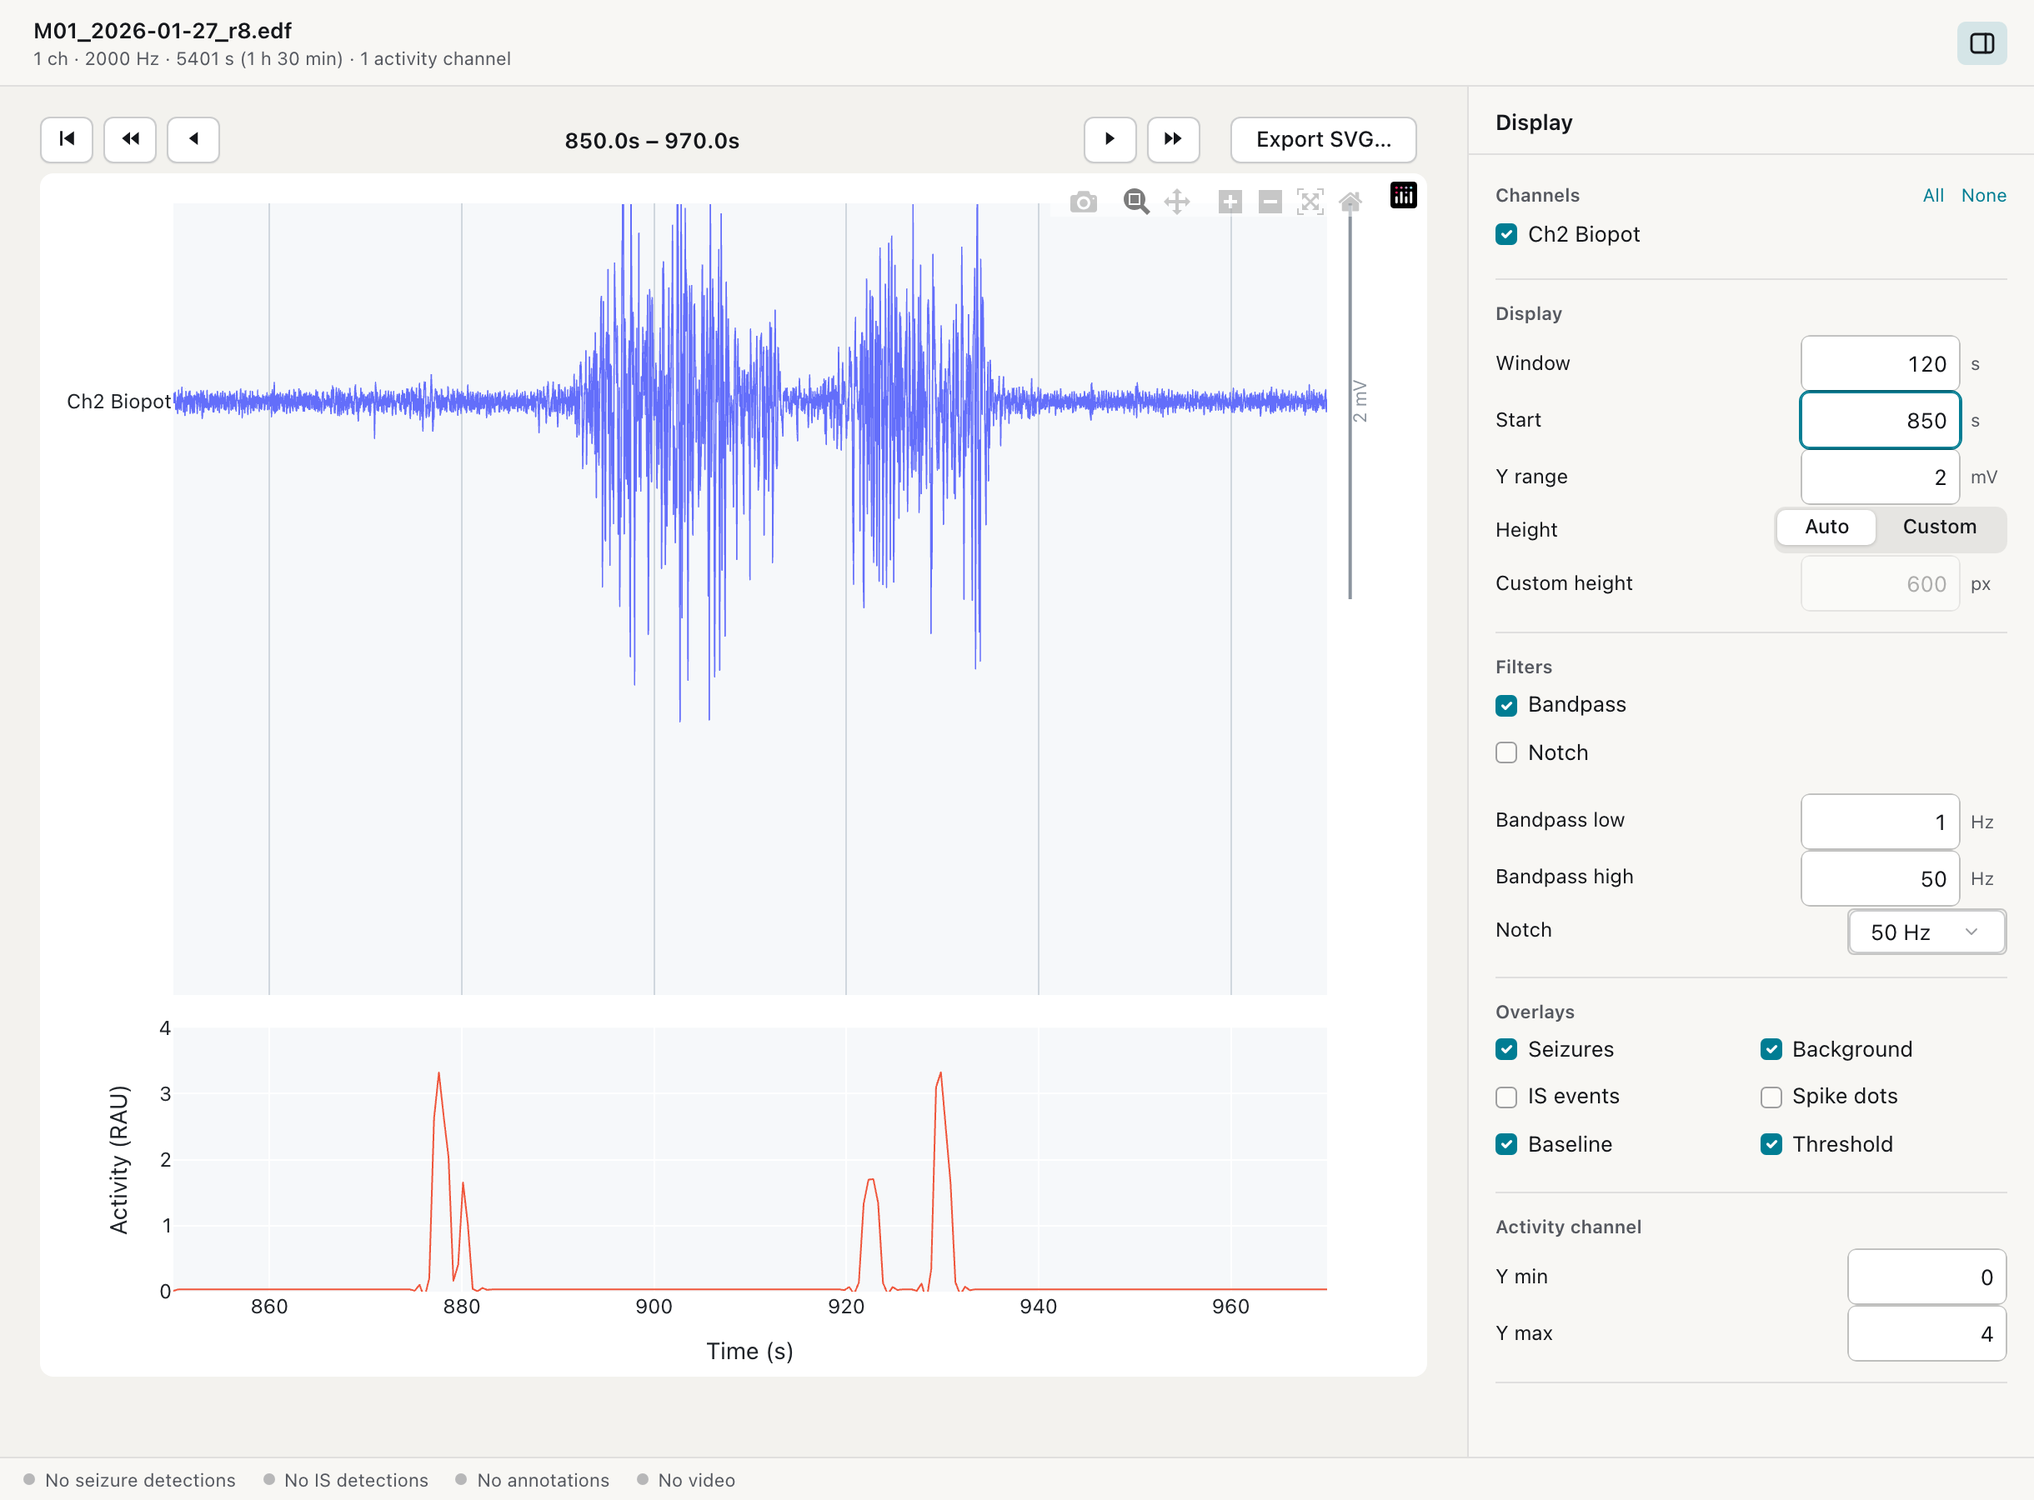
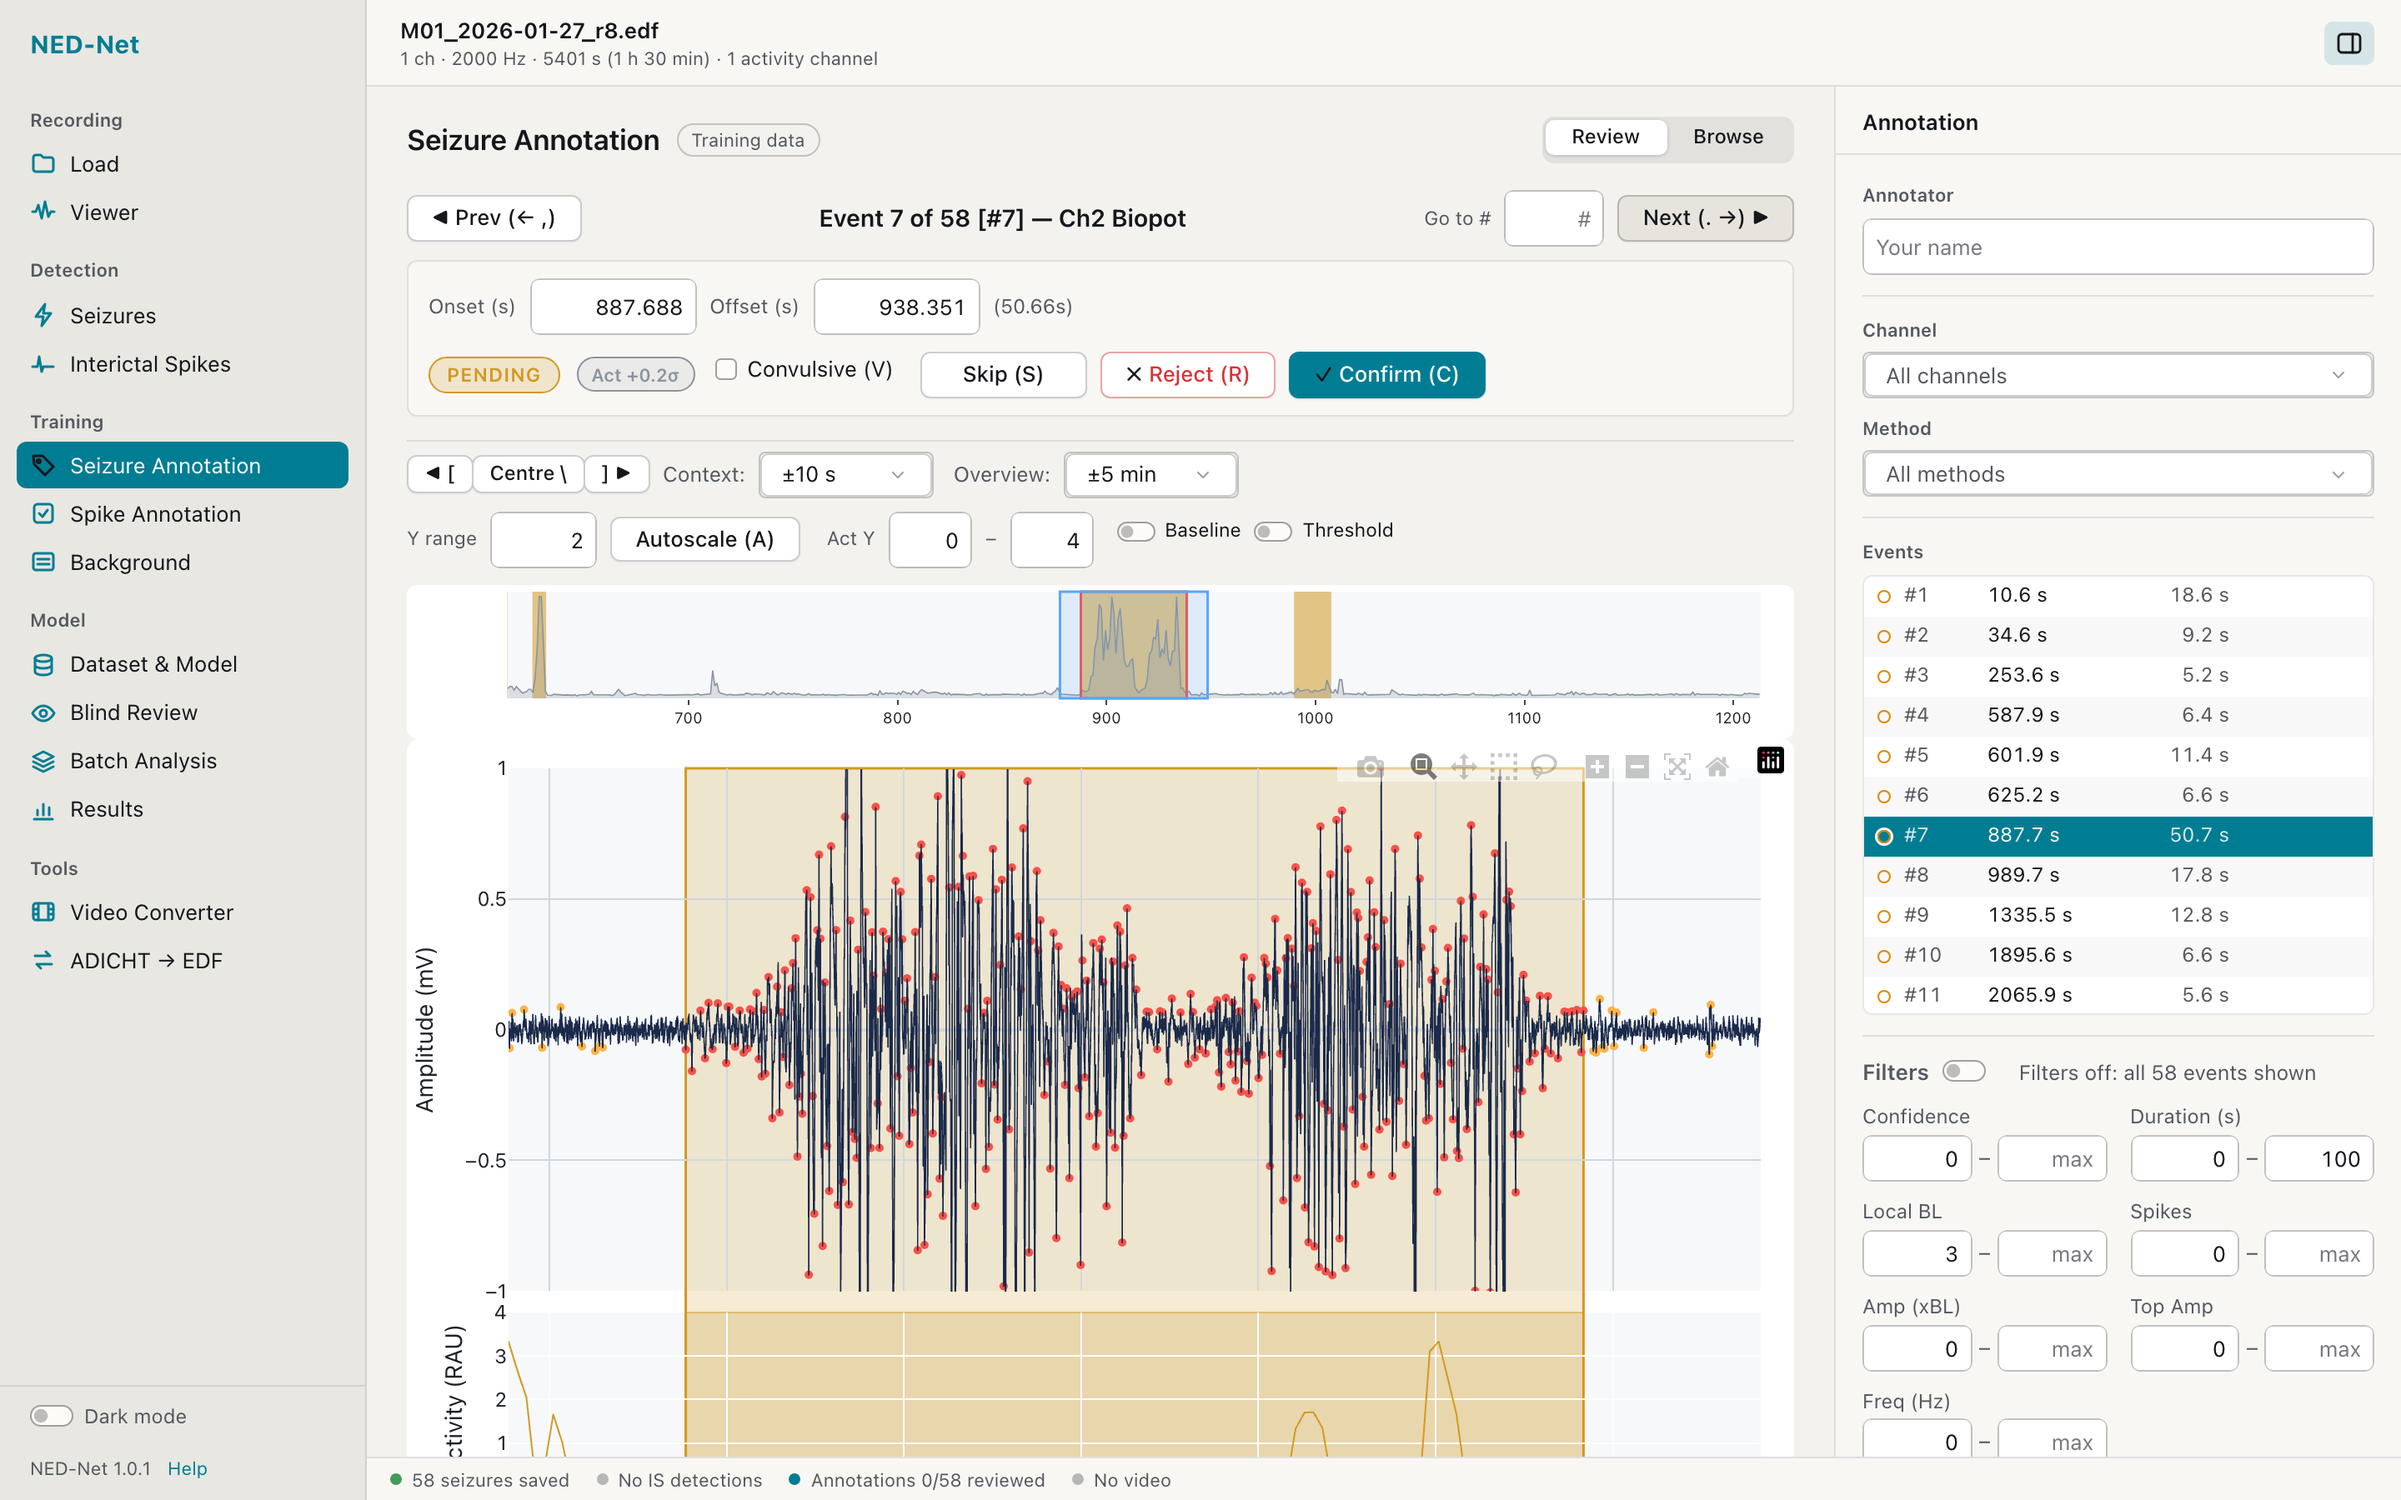
Show NED-Net's annotation review instead of its viewer
The viewer screenshot showed a scrolling EEG trace, which looks like
every other EEG tool. The Seizure Annotation screen shows what NED-Net
actually does differently: a detected seizure with its spikes marked,
Confirm / Reject / Skip, the event list, and the reviewed events going
back in as training data.

Caption updated to match.

diff --git a/src/data/apps.js b/src/data/apps.js
@@ -42,7 +42,7 @@ export const apps = [
       'Seizure and interictal spike detection in long-term rodent EEG. Rule-based detectors and a trained U-Net, with review, retraining, and per-project statistics.',
     chips: ['EDF', 'U-Net', 'Review', 'Batch', 'Group statistics'],
     shot: '/shots/nednet.png',
-    shotCaption: 'NED-Net — multi-channel EEG viewer',
+    shotCaption: 'NED-Net — reviewing detected seizures as training data',
   },
   {
     id: 'glia',
